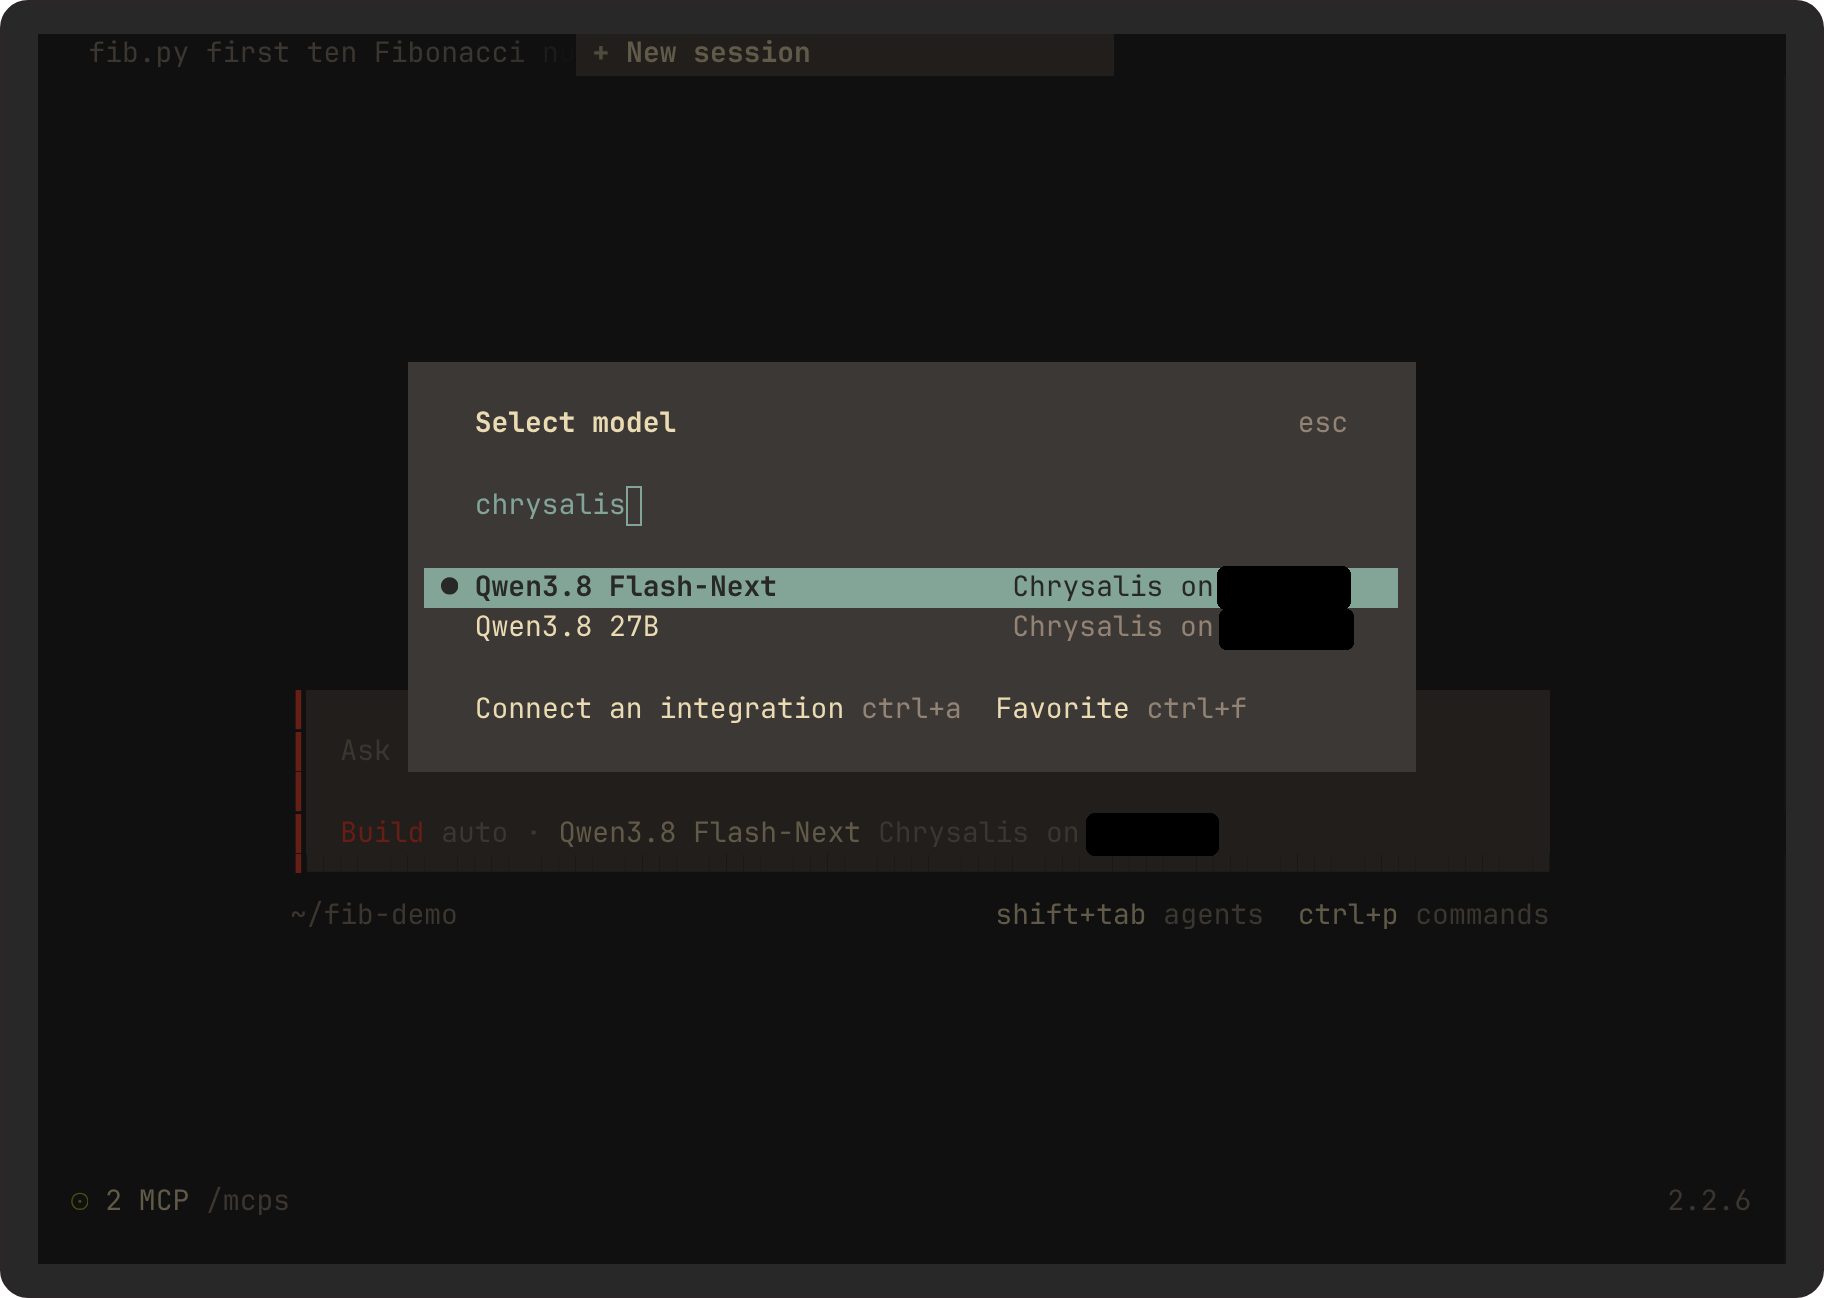
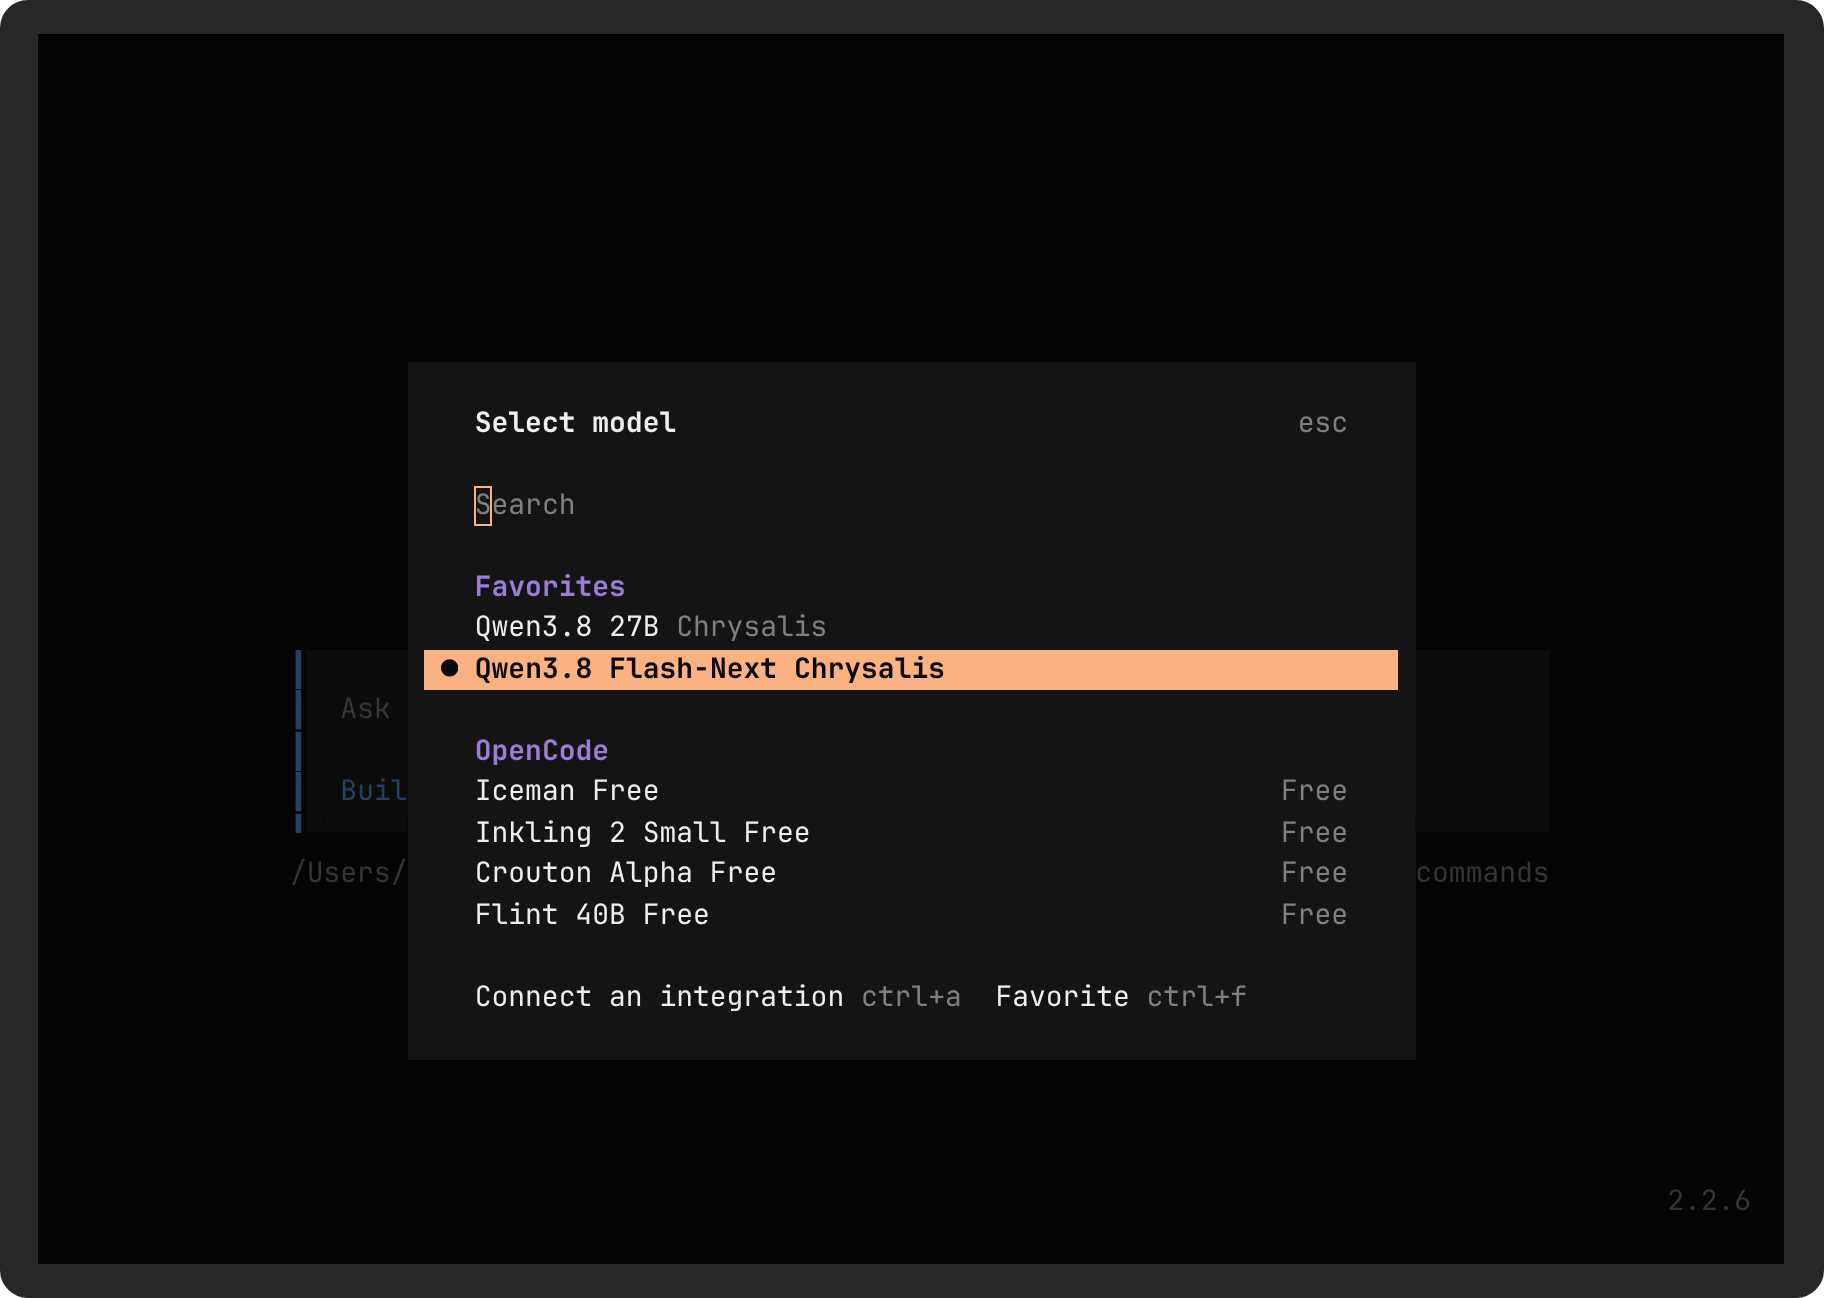
OpenCode shows Chrysalis as Chrysalis, with both models always side by side: the provider is named Chrysalis rather than Chrysalis on its host, and the line makes both models favorites beside any a person has, since OpenCode's picker takes a model you used out of its provider's group and left only t

diff --git a/web/server.test.ts b/web/server.test.ts
@@ -881,8 +881,8 @@ test("a computer with only OpenCode gets in from one pinned line and an approval
   writeFileSync(`${dir}/devices.json`, JSON.stringify([{ id: "b", name: "Phone", hash: createHash("sha256").update(browserKey).digest("hex"), added: 1, seen: 1, kind: "browser" }]));
   writeFileSync(`${home}/corporate.pem`, "corporate roots\n");
   const carries = `${home}/service-carries-ca`, window = `${home}/window`;
-  writeFileSync(`${bin}/opencode`, `#!/bin/sh\necho "$*" >> "${log}"\n[ "$1 $2" != "service get" ] || echo '{ "NODE_EXTRA_CA_CERTS": "${home}/corporate.pem" }'\n[ "$1 $2" != "service restart" ] || touch "${carries}"\n`);
-  writeFileSync(`${bin}/ps`, `#!/bin/sh\nif [ "$1" = -axo ]; then echo "/opt/x/opencode.exe serve --service"; [ ! -f "${window}" ] || echo "/opt/x/opencode.exe --auto"; else\n[ ! -f "${carries}" ] || echo "1 ?? S 0:00 opencode.exe serve --service NODE_EXTRA_CA_CERTS=${home}/.config/chrysalis/opencode-ca.pem"; fi\n`);
+  writeFileSync(`${bin}/opencode`, `#!/bin/sh\n[ -z "$BUN_BE_BUN" ] || exec "${process.execPath}" "$@"\necho "$*" >> "${log}"\n[ "$1 $2" != "service get" ] || echo '{ "NODE_EXTRA_CA_CERTS": "${home}/corporate.pem" }'\n[ "$1 $2" != "service restart" ] || touch "${carries}"\n`);
+  writeFileSync(`${bin}/ps`, `#!/bin/sh\nif [ "$1" = -axo ]; then echo "/opt/x/opencode.exe serve --service"; [ ! -f "${window}" ] || echo "opencode2"; else\n[ ! -f "${carries}" ] || echo "1 ?? S 0:00 opencode.exe serve --service NODE_EXTRA_CA_CERTS=${home}/.config/chrysalis/opencode-ca.pem"; fi\n`);
   const realCurl = Bun.which("curl")!, noName = `${home}/no-local-name`;
   writeFileSync(noName, "");
   writeFileSync(`${bin}/curl`, `#!/bin/sh\ncase "$*" in *.local:*) [ ! -f "${noName}" ] || exit 6; exit 0 ;; esac\nexec "${realCurl}" "$@"\n`);
@@ -890,7 +890,7 @@ test("a computer with only OpenCode gets in from one pinned line and an approval
   chmodSync(`${bin}/ps`, 0o755);
   chmodSync(`${bin}/curl`, 0o755);
   const desk = await onNetwork(dir), [here, net] = desk.urls, json = { "Content-Type": "application/json" };
-  const paste = (line: string, path = `${bin}:${process.env.PATH}`) => Bun.spawnSync(["sh", "-c", line], { env: { ...process.env, HOME: home, XDG_CONFIG_HOME: "", PATH: path }, stdout: "pipe", stderr: "pipe" });
+  const paste = (line: string, path = `${bin}:${process.env.PATH}`) => Bun.spawnSync(["sh", "-c", line], { env: { ...process.env, HOME: home, XDG_CONFIG_HOME: "", XDG_STATE_HOME: "", PATH: path }, stdout: "pipe", stderr: "pipe" });
   const calls = () => existsSync(log) ? readFileSync(log, "utf8").trim().split("\n") : [];
   let forward: Bun.Subprocess<"ignore", "pipe", "inherit"> | undefined;
   try {
@@ -903,7 +903,7 @@ test("a computer with only OpenCode gets in from one pinned line and an approval
     expect([missing.exitCode, String(missing.stderr)]).toEqual([1, expect.stringContaining("OpenCode is not on this computer")]);
 
     writeFileSync(window, "");
-    const held = Bun.spawn(["sh", "-c", line], { env: { ...process.env, HOME: home, XDG_CONFIG_HOME: "", PATH: `${bin}:${process.env.PATH}` }, stdout: "ignore", stderr: "pipe" });
+    const held = Bun.spawn(["sh", "-c", line], { env: { ...process.env, HOME: home, XDG_CONFIG_HOME: "", XDG_STATE_HOME: "", PATH: `${bin}:${process.env.PATH}` }, stdout: "ignore", stderr: "pipe" });
     expect(new TextDecoder().decode((await held.stderr.getReader().read()).value)).toContain("Close OpenCode to go on");
     await Bun.sleep(1200);
     expect(calls().filter((c) => c !== "service get env")).toEqual([]);
@@ -922,6 +922,20 @@ test("a computer with only OpenCode gets in from one pinned line and an approval
     rmSync(noName);
     expect(paste(line).exitCode).toBe(0);
     expect(calls().at(-1)).toBe(`auth login https://${netName()}:${new URL(net).port} --method login`);
+
+    const state = `${home}/.local/state/opencode/model.json`, chosen = () => JSON.parse(readFileSync(state, "utf8"));
+    const manifestNow = await (await fetch(`${net}/.well-known/opencode`, { tls: { rejectUnauthorized: false } })).json();
+    const [providerID, provided]: [string, any] = Object.entries(manifestNow.config.providers)[0] as [string, any];
+    const both = Object.keys(provided.models).map((modelID) => ({ providerID, modelID }));
+    expect(provided.name).toBe("Chrysalis");
+    expect(both.length).toBe(2);
+    expect(chosen().favorite).toEqual(both);
+    const mine = { providerID: "other", modelID: "theirs" };
+    writeFileSync(state, JSON.stringify({ recent: [mine], favorite: [mine, both[1]], variant: { "other/theirs": "high" } }));
+    expect(paste(line).exitCode).toBe(0);
+    expect(chosen()).toEqual({ recent: [mine], favorite: [mine, both[1], both[0]], variant: { "other/theirs": "high" } });
+    expect(paste(line).exitCode).toBe(0);
+    expect(chosen().favorite.length).toBe(3);
 
     const mac = mkdtempSync(`${RUN}/mac-`), jobs = `${home}/jobs`, refused = `${home}/launchd-refuses`, onMac = `${mac}:${bin}:${process.env.PATH}`;
     expect(existsSync(jobs)).toBe(false);

diff --git a/web/opencode.ts b/web/opencode.ts
@@ -3,6 +3,13 @@ import { createHash, X509Certificate } from "node:crypto";
 const MODELS = { "qwen3.8-27b": "Qwen3.8 27B", "qwen3.8-flash-next": "Qwen3.8 Flash-Next" };
 const KEY = "CHRYSALIS_KEY";
 const label = (name: string) => name.replace(/[^\w.-]/g, "-").slice(0, 60) || "chrysalis";
+const providerId = (name: string) => `chrysalis-${label(name)}`;
+const favorites = (name: string) => `const fs = require("fs"), f = process.env.FAVORITES, m = { recent: [], favorite: [], variant: {}, ...(fs.existsSync(f) ? JSON.parse(fs.readFileSync(f, "utf8")) : {}) };
+for (const modelID of ${JSON.stringify(Object.keys(MODELS))})
+    if (!m.favorite.some((x) => x.providerID === "${providerId(name)}" && x.modelID === modelID)) m.favorite.push({ providerID: "${providerId(name)}", modelID });
+fs.mkdirSync(require("path").dirname(f), { recursive: true });
+fs.writeFileSync(f + ".chrysalis", JSON.stringify(m));
+fs.renameSync(f + ".chrysalis", f);`;
 const pinned = (cert: string) => {
   const spki = new X509Certificate(cert).publicKey.export({ type: "spki", format: "der" });
   return `curl -fsSk --pinnedpubkey sha256//${createHash("sha256").update(spki).digest("base64")}`;
@@ -18,7 +25,7 @@ command -v opencode >/dev/null || { echo "OpenCode is not on this computer: get 
 dir="\${XDG_CONFIG_HOME:-$HOME/.config}/chrysalis"
 ca="$dir/opencode-ca.pem"
 mkdir -p "$dir"
-windows() { ps -axo command= | awk '{ n = $1; sub(/.*\\//, "", n) } (n == "opencode" || n == "opencode.exe") && $2 != "serve"' | grep -q .; }
+windows() { ps -axo command= | awk '{ n = $1; sub(/.*\\//, "", n) } (n == "opencode" || n == "opencode2" || n == "opencode.exe") && $2 != "serve"' | grep -q .; }
 fresh=
 if ! grep -qF ${fingerprint} "$ca" 2>/dev/null; then
     was=$(opencode service get env 2>/dev/null | sed -n 's/.*"NODE_EXTRA_CA_CERTS": *"\\([^"]*\\)".*/\\1/p')
@@ -59,6 +66,7 @@ CHRYSALIS_JOB
     if launchctl bootstrap "gui/$(id -u)" "$plist"; then origin=https://127.0.0.1:$port; fi
 fi
 opencode auth login "$origin" --method login </dev/null
+FAVORITES="\${XDG_STATE_HOME:-$HOME/.local/state}/opencode/model.json" BUN_BE_BUN=1 opencode -e '${favorites(name)}' || true
 `;
 }
 
@@ -79,6 +87,6 @@ done`;
     variants: ["low", "medium", "high"].map((effort) => ({ id: effort, settings: { reasoningEffort: effort } })),
   }]));
   return { auth: { command: ["sh", "-c", ask], env: KEY },
-    config: { providers: { [`chrysalis-${who}`]: { name: `Chrysalis on ${who}`, package: "@opencode-ai/ai/providers/openai-compatible",
+    config: { providers: { [providerId(name)]: { name: "Chrysalis", package: "@opencode-ai/ai/providers/openai-compatible",
       settings: { baseURL: `${origin}/v1`, apiKey: `{env:${KEY}}` }, models } } } };
 }

diff --git a/README.md b/README.md
@@ -264,11 +264,11 @@ has a line to copy. With no browser there, as on a server over SSH, Chrysalis's 
 <sub>Paste it into a terminal (on Windows, WSL's), and allow the code it shows, in Chrysalis's terminal or under Connect a
 device. If OpenCode is open, it asks you to close it first.</sub>
 
-<p align="center"><img src="media/opencode-models.png" width="440" alt="OpenCode's model picker: Qwen3.8 Flash-Next and Qwen3.8 27B under Chrysalis on omarchy"> <img src="media/opencode-coding.png" width="440" alt="OpenCode writing and running fib.py on Qwen3.8 Flash-Next, Chrysalis on omarchy"></p>
+<p align="center"><img src="media/opencode-models.png" width="440" alt="OpenCode's model picker: Qwen3.8 27B and Qwen3.8 Flash-Next, both Chrysalis, under Favorites at the top"> <img src="media/opencode-coding.png" width="440" alt="OpenCode writing and running fib.py on Qwen3.8 Flash-Next, Chrysalis on omarchy"></p>
 
-<sub>Pick a Chrysalis model with `ctrl+x m`, and code. A model you have used moves up to Recent, at the top of the list. While
-Chrysalis is off OpenCode says it can't connect and keeps trying, and the reply comes once it is back. Remove under Connect a
-device takes the computer's access away.</sub>
+<sub>Both models wait at the top of `ctrl+x m`, as favorites, whichever you used last: pick one, and code. While Chrysalis is off
+OpenCode says it can't connect and keeps trying, and the reply comes once it is back. Remove under Connect a device takes the
+computer's access away.</sub>
 
 The line carries this computer's key, so it refuses any impostor, and only computers you allow get in. OpenCode reaches
 Chrysalis over HTTPS by a name Chrysalis answers on your network, and trusts its authority for names on your network alone.
